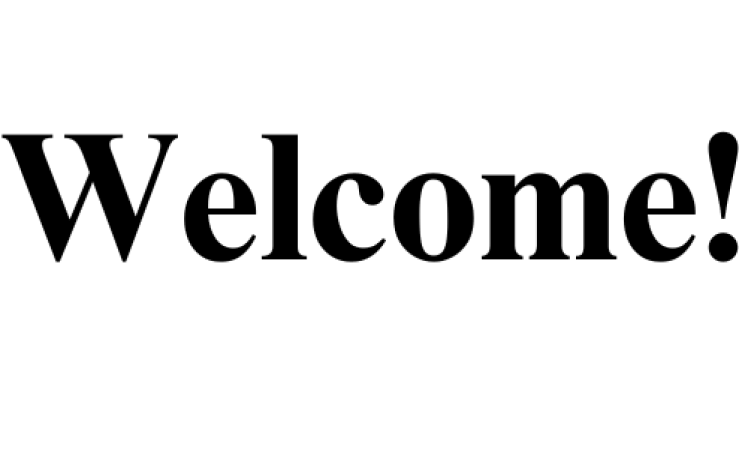
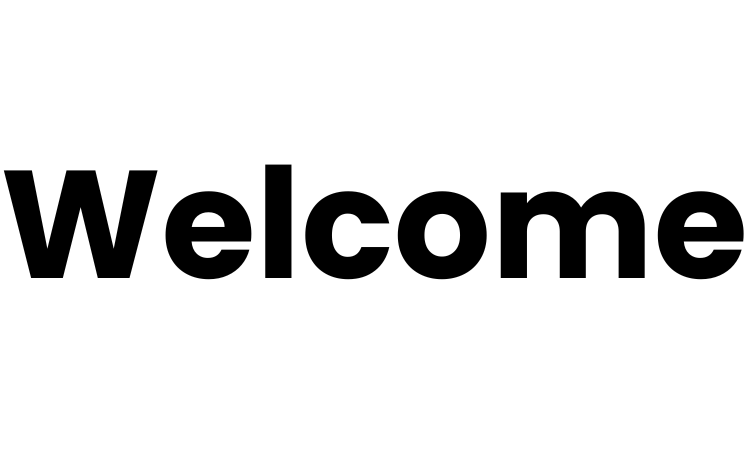
login countdown fix and attempts

Changed region(s): [[0.0, 0.28, 1.0, 0.6222]]

diff --git a/src/pages/login.jsx b/src/pages/login.jsx
@@ -10,8 +10,17 @@ const Login = () => {
   const [password, setPassword] = useState("");
   const [passwordVisible, setPasswordVisibility] = useState(false);
   const [errorMsg, setErrorMsg] = useState(null);
-  const [loginAttempts, setLoginAttempts] = useState(0);
-  const [waitTime, setWaitTime] = useState(0);
+  const [loginAttempts, setLoginAttempts] = useState(
+    localStorage.getItem("loginAttempts")
+      ? parseInt(localStorage.getItem("loginAttempts"))
+      : 0
+  );
+
+  const [waitTime, setWaitTime] = useState(
+    localStorage.getItem("waitTime")
+      ? parseInt(localStorage.getItem("waitTime"))
+      : 0
+  );
 
   const navigate = useNavigate();
 
@@ -72,6 +81,8 @@ const Login = () => {
             .filter(Boolean); // Remove null entries
 
           if (results.length > 0) {
+            localStorage.removeItem("loginAttempts");
+            setLoginAttempts(0);
             // If user data exists with matching email/username
             const userRole = results[0].role;
             const userEmployeeID = results[0].employeeID;
@@ -113,7 +124,11 @@ const Login = () => {
         const errorMessage = error.message;
         console.log(errorCode, errorMessage);
         setErrorMsg("Invalid username or password. Please try again.");
-        setLoginAttempts((prevAttempts) => prevAttempts + 1);
+        setLoginAttempts((prevAttempts) => {
+          const newAttempts = prevAttempts + 1;
+          localStorage.setItem("loginAttempts", newAttempts); // Store login attempts
+          return newAttempts;
+        });
         if (loginAttempts === 2 && waitTime === 0) {
           setWaitTime(60);
           startCountdown();
@@ -124,6 +139,7 @@ const Login = () => {
 
   const startCountdown = () => {
     if (waitTime > 0) {
+      localStorage.setItem("waitTime", waitTime);
       setTimeout(() => {
         setWaitTime((prevWaitTime) => prevWaitTime - 1);
       }, 1000);
@@ -134,8 +150,10 @@ const Login = () => {
     if (waitTime > 0) {
       const countdownInterval = setInterval(() => {
         setWaitTime((prevWaitTime) => prevWaitTime - 1);
+        localStorage.setItem("waitTime", waitTime - 1); // Update stored countdown value
       }, 1000);
       return () => clearInterval(countdownInterval);
+      localStorage.removeItem("waitTime"); // Remove countdown value on completion
     }
   }, [waitTime]);
 
@@ -166,6 +184,10 @@ const Login = () => {
     event.preventDefault();
   };
 
+  const handleRefresh = () => {
+    window.location.reload();
+  };
+
   return (
     <>
       <div className="login-page">
@@ -182,7 +204,7 @@ const Login = () => {
           <div className="bg-right">
             <img className="bg" alt="" src="/bg.png" />
           </div>
-          <img className="welcome-img" alt="" src="/welcome.png" />
+          <img className="welcome-img " alt="" src="/Welcome-1-2.png" />
 
           <form onSubmit={handleSubmit}>
             <input

diff --git a/src/components/header.jsx b/src/components/header.jsx
@@ -11,6 +11,7 @@ import { RiArrowDropDownLine } from "react-icons/ri";
 import { CgProfile } from "react-icons/cg";
 import { CgLogOut } from "react-icons/cg";
 import Hamburger from "hamburger-react";
+import { motion } from "framer-motion";
 
 const header = () => {
   const location = useLocation();
@@ -179,7 +180,11 @@ const header = () => {
       </header>
 
       {showMenu && (
-        <div className="profile-mobile">
+        <motion.div
+          initial={{ opacity: 0 }}
+          animate={{ opacity: 1 }}
+          className="profile-mobile"
+        >
           <div className="profile-information-mobile">
             {profileImage && (
               <img src={profileImage} alt="Profile" className="header-img-2" />
@@ -218,7 +223,7 @@ const header = () => {
               <p>LOGOUT</p>
             </div>
           </div>
-        </div>
+        </motion.div>
       )}
     </>
   );

diff --git a/src/pages/login.css b/src/pages/login.css
@@ -108,13 +108,14 @@ body.loginPage::before {
 }
 .welcome-img {
   width: 100%;
-  max-width: 320px;
+  max-width: 250px;
   position: absolute;
   top: 50%;
   left: 50%;
   transform: translate(-50%, -50%);
   margin-top: -20%;
   margin-left: -9%;
+  background-color: transparent;
 }
 .username,
 .password {
@@ -255,6 +256,7 @@ body.loginPage::before {
 .error-input {
   border-bottom: 2px solid red;
 }
+
 @media screen and (max-width: 1024px) {
   .copyright {
     font-size: 0.781vw;

diff --git a/src/pages/forgot.jsx b/src/pages/forgot.jsx
@@ -8,6 +8,7 @@ function ForgotPassword() {
   const history = useNavigate();
 
   const handleSubmit = async (e) => {
+    localStorage.removeItem("loginAttempts");
     e.preventDefault();
     const emalVal = e.target.email.value;
     sendPasswordResetEmail(auth, emalVal)
